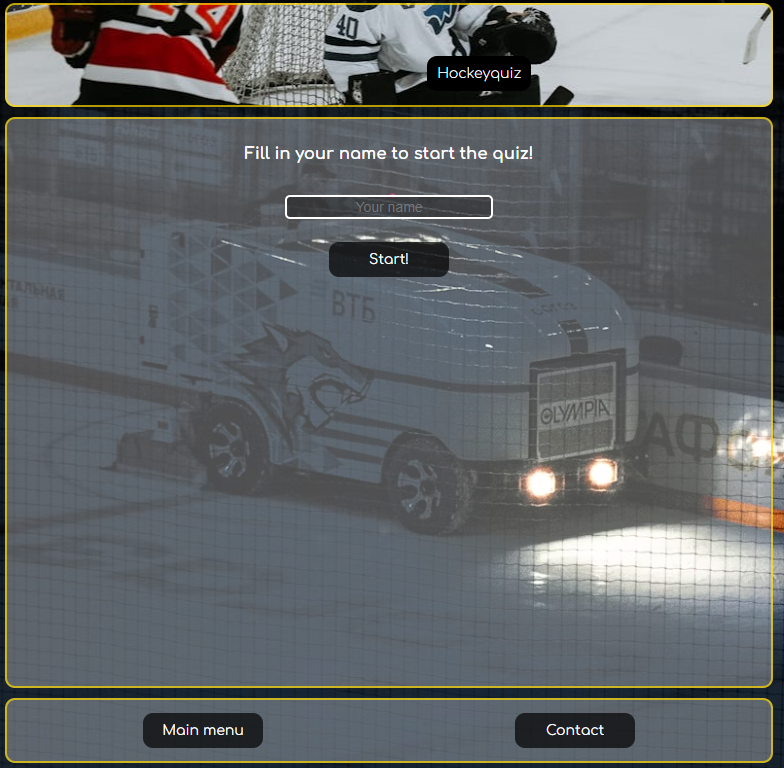
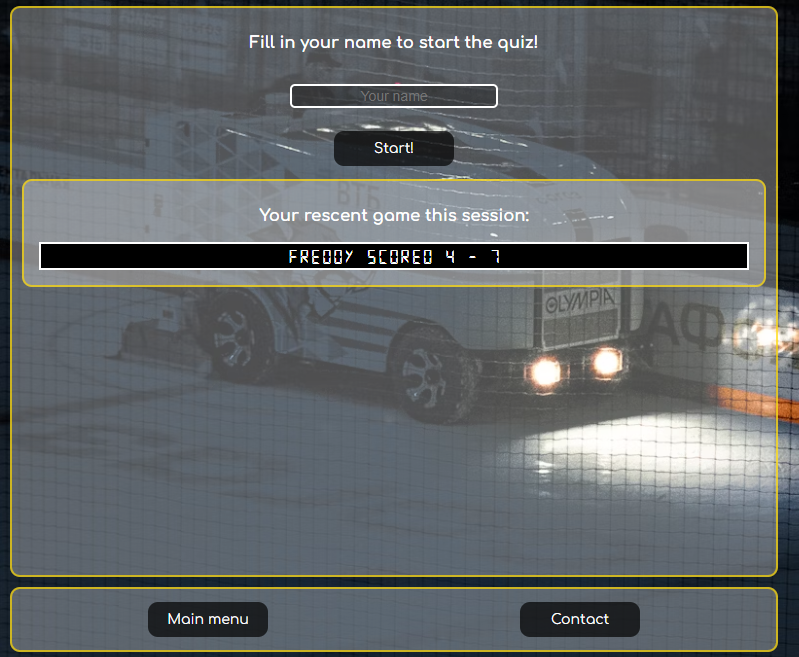
added content to README and changed title on latest scores

diff --git a/index.html b/index.html
@@ -76,7 +76,7 @@
           <!-- When the button is clicked function collectData() will fetch the input-->
           <button id="start-the-game" class="btn black-btn" onclick="collectData()">Start!</button>
           <div id="rescent" class="grey-div">
-            <h3>Your rescent game this session:</h3>
+            <h3>Your latest game:</h3>
             <div id="rescent-game"><span id="rescent-player"></span><span id="rescent-score"></span></div>
           </div>
         </div>

diff --git a/README.md b/README.md
@@ -21,7 +21,7 @@ I want this quiz to:<br> - be fun and educational about the game of hockey. <br>
 As a first time visiting: <br>- I will have instructions on how this quiz works directly when arriving to the main page.<br>- I can easily find the play button to start the quiz<br>- I can share my feedback about this quiz at the contact page.
 
 ### Returning visitor
-As a returning visitor: <br>- I will have new question every game I´m playing the quiz since it´s only picks 11 random questions out of the array.
+As a returning visitor: <br>- I will have new question every game I´m playing the quiz since it´s only picks 11 random questions out of the array. I want to get a higher score than my last time.
 
 ### Frequently visitor
 As a frequently visitor: <br>- I want to challenge myself and win with 11 - 0 to the quiz since the correct answer only shows if you have answered right.
@@ -52,7 +52,8 @@ From this page the user can also navigate to main page and contact by clicking t
 <img src="readme/quiz.png"><br><img src="readme/endquiz.png">
 
 # **Flowchart**<br>
-<br><br><img src="readme/flowchart.png"><br>
+- Before I began with this quiz, I made a flowchart manually at home. Underneith you can see how this game runs.
+<br><br><img src="readme/flowchart_start.png"><img src="readme/flowchart.png"><br>
 
 # **Future features**
 - I would like to improve this quiz with a function where visitors can send in questions that I can review and paste to the game
@@ -108,6 +109,7 @@ Here are my first blueprints on how I wanted this quiz to look.<br><br>
 | Start the quiz | Question should be displayed when I have filled in a name | Filled in a name and clicked Start! | A question was shown and the quiz started | Pass |
 | Main menu | Directed back to home page | Clicked on Main menu | Home page was loaded | Pass | 
 | Contact | Directed to contact page | Clicked on Contact | Pass |
+| Rescent score | Rescent score on this device shall be shown | Played a game and got out of the page then back to this page | Last played score was shown | Pass |
 
 `Quiz page`
 
